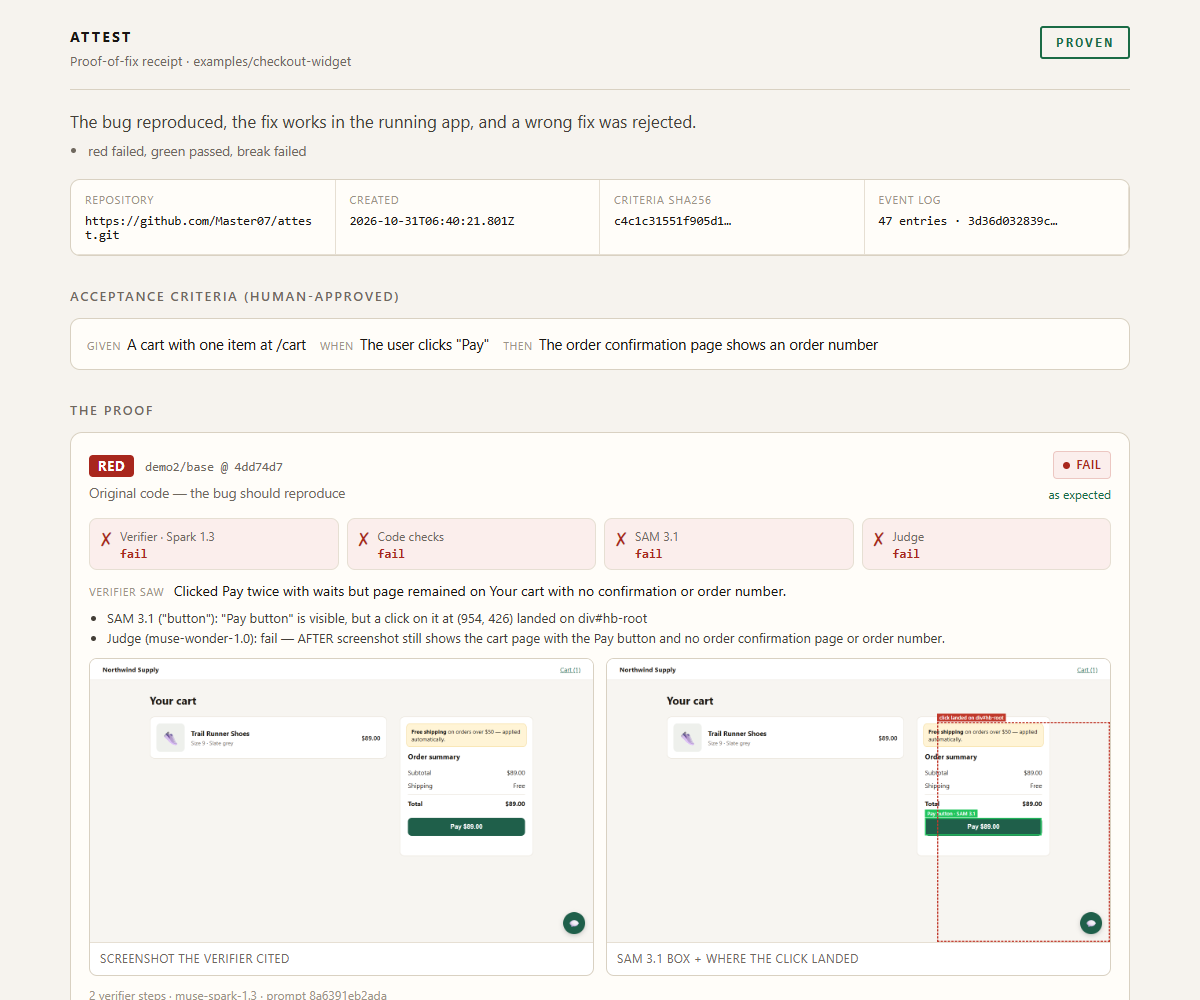
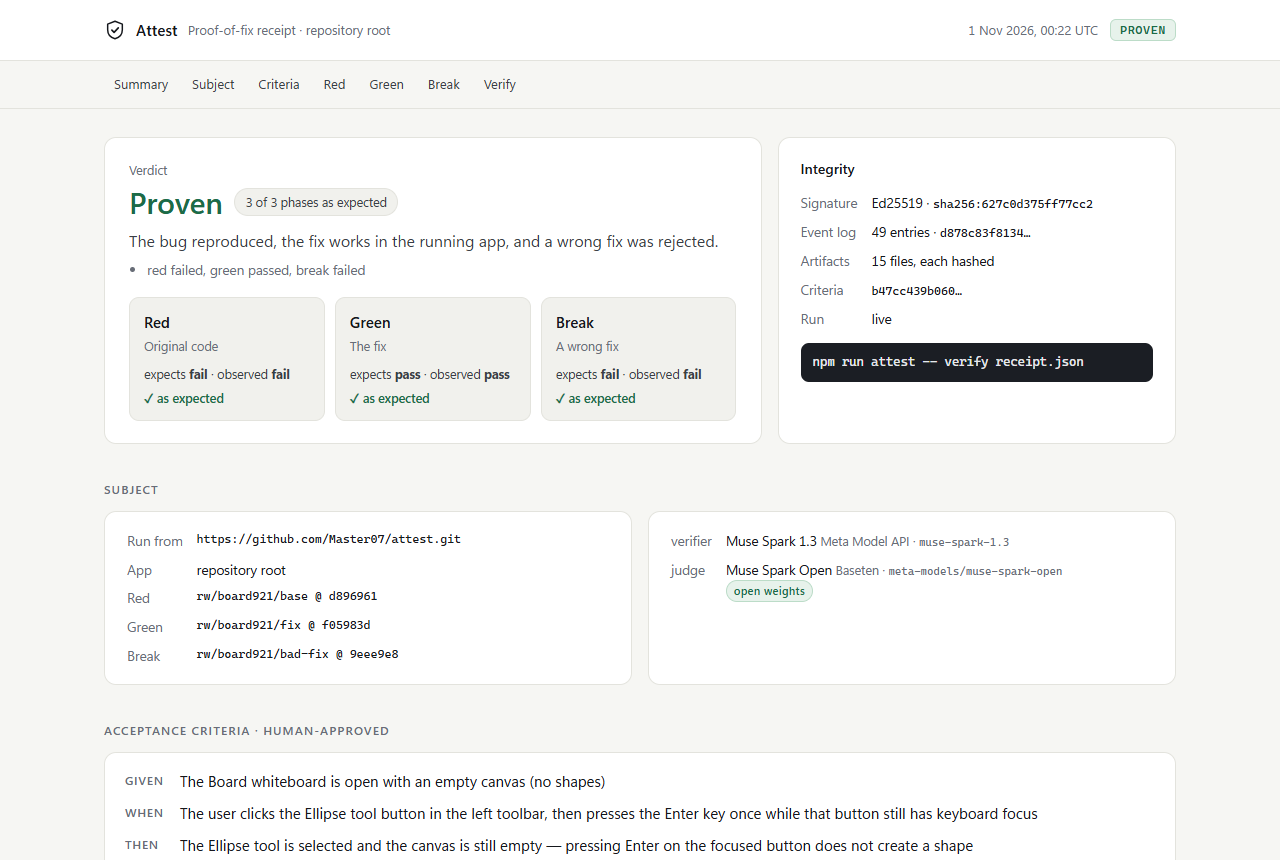
README and ROADMAP: final pass before going public
The documentation table lists the Board#921 real-world proof (the lead
result) and the proofs folder; the module table adds the PR comment and
verify-proofs. The evidence-page screenshot now shows the redesigned
page for the Board#921 PROVEN receipt. ROADMAP ticks the real-world AI
PR proof, the committed receipts and the key isolation, and states why
generated wrong fixes need an independent check.

diff --git a/README.md b/README.md
@@ -37,7 +37,7 @@ Each phase gets **four independent votes**, and disagreement is never a pass:
 
 Everything — votes, screenshots, a hash-chained event log — is sealed into a **signed receipt** plus an evidence page. `attest verify` checks it without calling any model, and rejects any edit. Every result below is a committed receipt: `npm run verify-proofs` checks all of them ([proofs/](proofs/)).
 
-![The evidence page for a PROVEN receipt](docs/assets/evidence-page.png)
+![The evidence page for the PROVEN receipt on Devin's Board#921 fix: verdict, three phases as expected, integrity panel](docs/assets/evidence-page.png)
 
 ## Results
 
@@ -114,7 +114,9 @@ Every model Attest calls at runtime is a Meta model. Details: [MODEL_STRATEGY](d
 |---|---|
 | [ARCHITECTURE](docs/ARCHITECTURE.md) | The proof, the blind verifier, vote combining, the receipt, threats and limits |
 | [BENCHMARK](docs/BENCHMARK.md) | Ten planted bugs, two runs, what the numbers do and don't mean |
-| [Real-world proof](examples/realworld/todomvc-delete/README.md) | A real 2012 TodoMVC bug and its real fix |
+| [Real-world: Devin's Board#921 fix](examples/realworld/board-enter/README.md) | An AI agent's merged fix in someone else's app, both runs |
+| [Real-world: TodoMVC 2012](examples/realworld/todomvc-delete/README.md) | A real historical bug and its real fix, all four runs |
+| [Proofs](proofs/README.md) | Every committed receipt and how to check it |
 | [MODEL_STRATEGY](docs/MODEL_STRATEGY.md) | Which Meta model does what, and why |
 | [ROADMAP](docs/ROADMAP.md) | Built / shown / planned |
 | [Decision records](docs/adr/) | Including [ADR 0005](docs/adr/0005-narrow-to-proof-of-fix.md): why Attest is proof-of-fix, not an orchestrator |
@@ -137,6 +139,8 @@ npm run bench -- check               # AI-free check of the 10 benchmark scenari
 | `src/eventlog.ts`, `src/receipt.ts`, `src/report.ts` | Hash-chained log, signed receipt + `verify`, evidence page |
 | `src/workspace.ts`, `src/browser.ts` | A git worktree per ref; Playwright with raw mouse/keyboard and click hit-testing |
 | `src/producer.ts`, `src/loop.ts` | Muse Code headless producer and the closed loop |
+| `src/prcomment.ts` | `attest pr` / `attest comment`: the proof as a GitHub pull-request comment |
+| `scripts/verify-proofs.ts` | Verifies every committed receipt; `--write-index` writes the proofs dashboard |
 | `src/api.ts` | Responses API client with retries and record/replay |
 
 ## Limits

diff --git a/docs/ROADMAP.md b/docs/ROADMAP.md
@@ -21,6 +21,9 @@ Items are tagged by how real they are: **Build** (real, demoed), **Show** (thin 
 - [x] Proof videos per phase + SAM 3.1 visibility check with click hit-testing and reveal images
 - [x] Independent judge on Muse Spark Open (open weights, own Baseten account), Muse Wonder fallback
 - [x] Real-world proof: TodoMVC's 2012 delete bug ([examples/realworld](../examples/realworld/todomvc-delete/README.md))
+- [x] Real-world proof on an AI agent's merged fix: Devin's shizukutanaka/Board#921 — PROVEN, criterion frozen before the run ([examples/realworld/board-enter](../examples/realworld/board-enter/README.md))
+- [x] Every reported result committed as a signed receipt; `npm run verify-proofs` checks them all; evidence pages and a proofs dashboard ([proofs](../proofs/README.md))
+- [x] The app under test never receives Attest's API keys (allowlisted environment)
 
 ## Hackathon — Show (only if time remains)
 
@@ -33,7 +36,7 @@ Items are tagged by how real they are: **Build** (real, demoed), **Show** (thin 
 
 - [x] Criteria drafted from a voice + screen-recording bug report (Muse Voice Transcribe + Spark video input) — `attest draft`
 - [ ] Recording-vs-reality mismatch check
-- [ ] Auto-generated Break mutants
+- [ ] Auto-generated Break mutants — needs an independent check that a generated wrong fix really is wrong; without one, the Break is only as trustworthy as the generator
 
 ## After the hackathon — Tell
 
